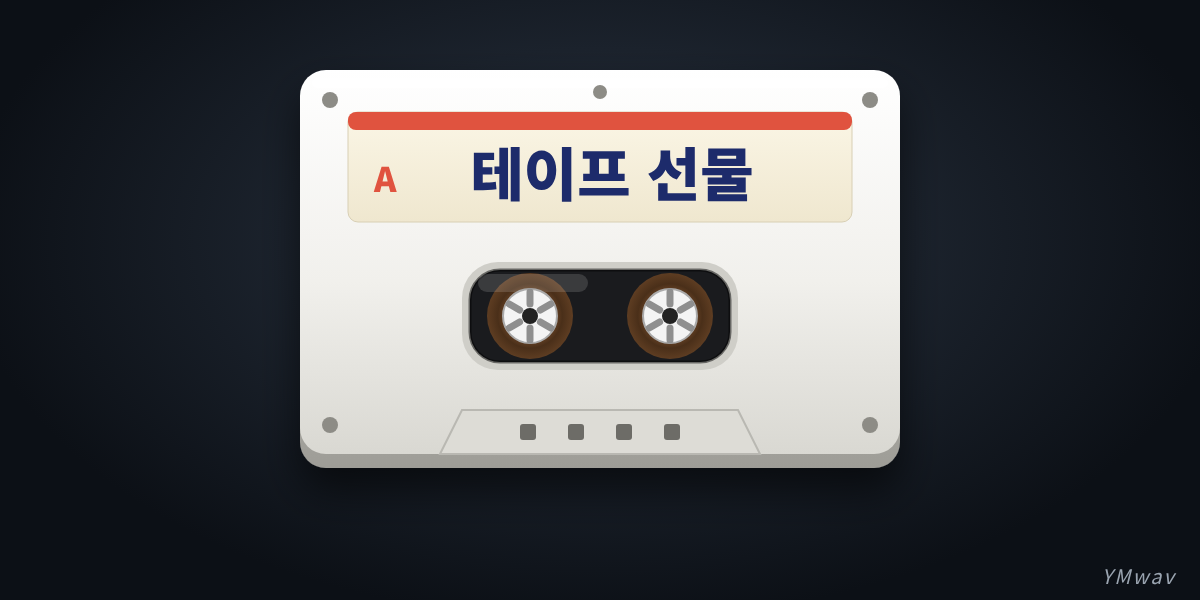
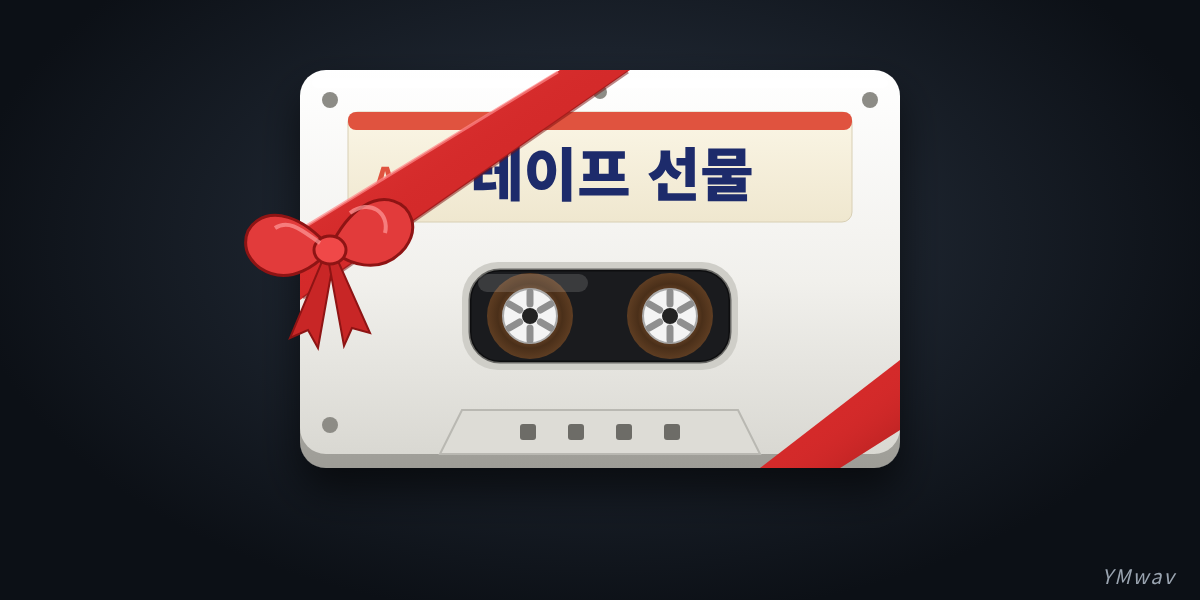
Add files via upload

Changed region(s): [[0.185, 0.09, 0.5242, 0.57], [0.6167, 0.6, 0.7708, 0.78]]

diff --git a/index.html b/index.html
@@ -5,7 +5,7 @@
 <meta name="viewport" content="width=device-width,initial-scale=1,viewport-fit=cover">
 <meta name="referrer" content="strict-origin-when-cross-origin">
 <title>유튜브 테이프</title>
-<!-- index 12번: 입체감+바닥 반사 · X표는 화살표 사이(빈 칸도 남김) · 팝송 추가 · songs.json 노래 목록 · YMwav 5번 누르면 목록 만들기 | index 11번: 간단 선물 창(카톡·문자 한 곡 선물, 담은 곡 모두 선물) · 트로트/발라드 랜덤 10곡 테이프 · 곡 지우기 · 나무결 서랍 · 앱 없으면 플레이스토어로(주소 넣으면 켜짐) | index 10번: 색 버튼 화살표 · 작은 LED · 선물상자 콩닥 · 투명 안내글 · 작은 N-T/R-T · 나무 서랍(테이프 수·재생 번호·돋보기) · 노래 목록 정렬 | index 9번: MY·MY 대신 안내 전광판 · 색 버튼 옆 파란 LED · 선물 테이프 3초 뒤 자동 재생 · 카드 기본 문구 "좋은 노래를 담았어요" · 입체감 | index 8-1번: 카톡 카드 링크 주소 고정 + 예전 방식 링크 보내기 버튼 | index 8번: 하얀 마이마이 · 색 바꾸기(실버 메탈) · 30도 뚜껑 · 카톡 카드 선물 + 한마디 · 녹음 소리 -->
+<!-- index 13번: 바닥 반사 빼서 가볍게 · 선물상자 작게 · 테이프 넣고 1초 안에 재생 · 리본 카드 | index 12번: 입체감+바닥 반사 · X표는 화살표 사이(빈 칸도 남김) · 팝송 추가 · songs.json 노래 목록 · YMwav 5번 누르면 목록 만들기 | index 11번: 간단 선물 창(카톡·문자 한 곡 선물, 담은 곡 모두 선물) · 트로트/발라드 랜덤 10곡 테이프 · 곡 지우기 · 나무결 서랍 · 앱 없으면 플레이스토어로(주소 넣으면 켜짐) | index 10번: 색 버튼 화살표 · 작은 LED · 선물상자 콩닥 · 투명 안내글 · 작은 N-T/R-T · 나무 서랍(테이프 수·재생 번호·돋보기) · 노래 목록 정렬 | index 9번: MY·MY 대신 안내 전광판 · 색 버튼 옆 파란 LED · 선물 테이프 3초 뒤 자동 재생 · 카드 기본 문구 "좋은 노래를 담았어요" · 입체감 | index 8-1번: 카톡 카드 링크 주소 고정 + 예전 방식 링크 보내기 버튼 | index 8번: 하얀 마이마이 · 색 바꾸기(실버 메탈) · 30도 뚜껑 · 카톡 카드 선물 + 한마디 · 녹음 소리 -->
 <!-- 카톡·문자에 링크를 보내면 이 그림과 글이 카드로 보여요 -->
 <meta name="description" content="테이프 선물이 왔어요! 눌러서 마이마이로 들어 보세요.">
 <meta property="og:type" content="website">
@@ -539,6 +539,17 @@ body{background:radial-gradient(ellipse 90% 40% at 50% 520px,#1c2230,#000 70%) n
 .mv .del{width:28px;height:22px;font-size:12px;border:1px solid #ff8a8a;background:#2a1010;color:#ffb0b0;border-radius:6px;padding:0}
 .radio .rbtn{font-size:13px;padding:4px 3px}
 .radio .rbtn+.rbtn::before{margin-right:3px}
+/* ===== 13번: 가볍게 ===== */
+.mymy{-webkit-box-reflect:none!important;margin-bottom:14px!important}
+.mymy .body{box-shadow:0 0 0 2px var(--bd),inset 0 3px 0 rgba(255,255,255,.85),inset 0 -6px 0 rgba(0,0,0,.08),
+  0 4px 0 1px color-mix(in srgb,var(--b2) 75%,#000),0 8px 0 1px color-mix(in srgb,var(--b2) 60%,#000)!important}
+.key{box-shadow:inset 0 2px 0 rgba(255,255,255,.9),0 8px 0 var(--kd)}
+body{background:#000!important}
+.door{transition-duration:.3s}
+.cassette{transition:transform .45s cubic-bezier(.25,.8,.3,1),opacity .3s}
+.topbar .gift{font-size:19px!important}
+.gcount{font-size:11px!important;right:-7px!important;top:-6px!important}
+.kym{padding:6px 4px;cursor:pointer;-webkit-tap-highlight-color:transparent}
 </style>
 </head>
 <body>
@@ -901,7 +912,7 @@ var autoTimer=null;
 function cancelAuto(){if(autoTimer){clearTimeout(autoTimer);autoTimer=null;}$('kPlay').classList.remove('pulse');}
 function autoPlaySoon(){
   cancelAuto();$('kPlay').classList.add('pulse');
-  autoTimer=setTimeout(function(){autoTimer=null;$('kPlay').classList.remove('pulse');if(!playing&&!busy)onPlay();},3000);
+  autoTimer=setTimeout(function(){autoTimer=null;$('kPlay').classList.remove('pulse');if(!playing&&!busy)onPlay();},1000);
 }
 function setTheme(n){
   var m=$('mymy');THEMES.forEach(function(x){m.classList.remove('th-'+x);});
@@ -920,8 +931,8 @@ function tapeProgress(frac){
 
 function thunk(){var b=document.querySelector('.mymy .body');b.classList.remove('thunk');void b.offsetWidth;b.classList.add('thunk');}
 var quietDoor=false;
-async function openDoor(){var d=$('door');d.classList.remove('closing');if(!quietDoor)sDoor();d.classList.add('open');await wait(550);}
-async function closeDoor(){var d=$('door');d.classList.add('closing');d.classList.remove('open');await wait(370);if(!quietDoor)sClack();thunk();await wait(250);d.classList.remove('closing');}
+async function openDoor(){var d=$('door');d.classList.remove('closing');if(!quietDoor)sDoor();d.classList.add('open');await wait(300);}
+async function closeDoor(){var d=$('door');d.classList.add('closing');d.classList.remove('open');await wait(300);if(!quietDoor)sClack();thunk();await wait(80);d.classList.remove('closing');}
 async function insertTape(i,startIdx){
   busy=true;
   var cas=$('cas'),useMp3=SND.insert&&!SND.insert.bad;
@@ -933,7 +944,7 @@ async function insertTape(i,startIdx){
   cur=(typeof startIdx==='number')?startIdx:(filled(tapes[i])[0]||0);
   setReels(tapeProgress(0));renderRack();
   cas.classList.toggle('ck',tapeCol(tapes[i])==='ck');
-  cas.classList.remove('out');await wait(850);
+  cas.classList.remove('out');await wait(450);
   await closeDoor();
   quietDoor=false;busy=false;updateNow();
 }
